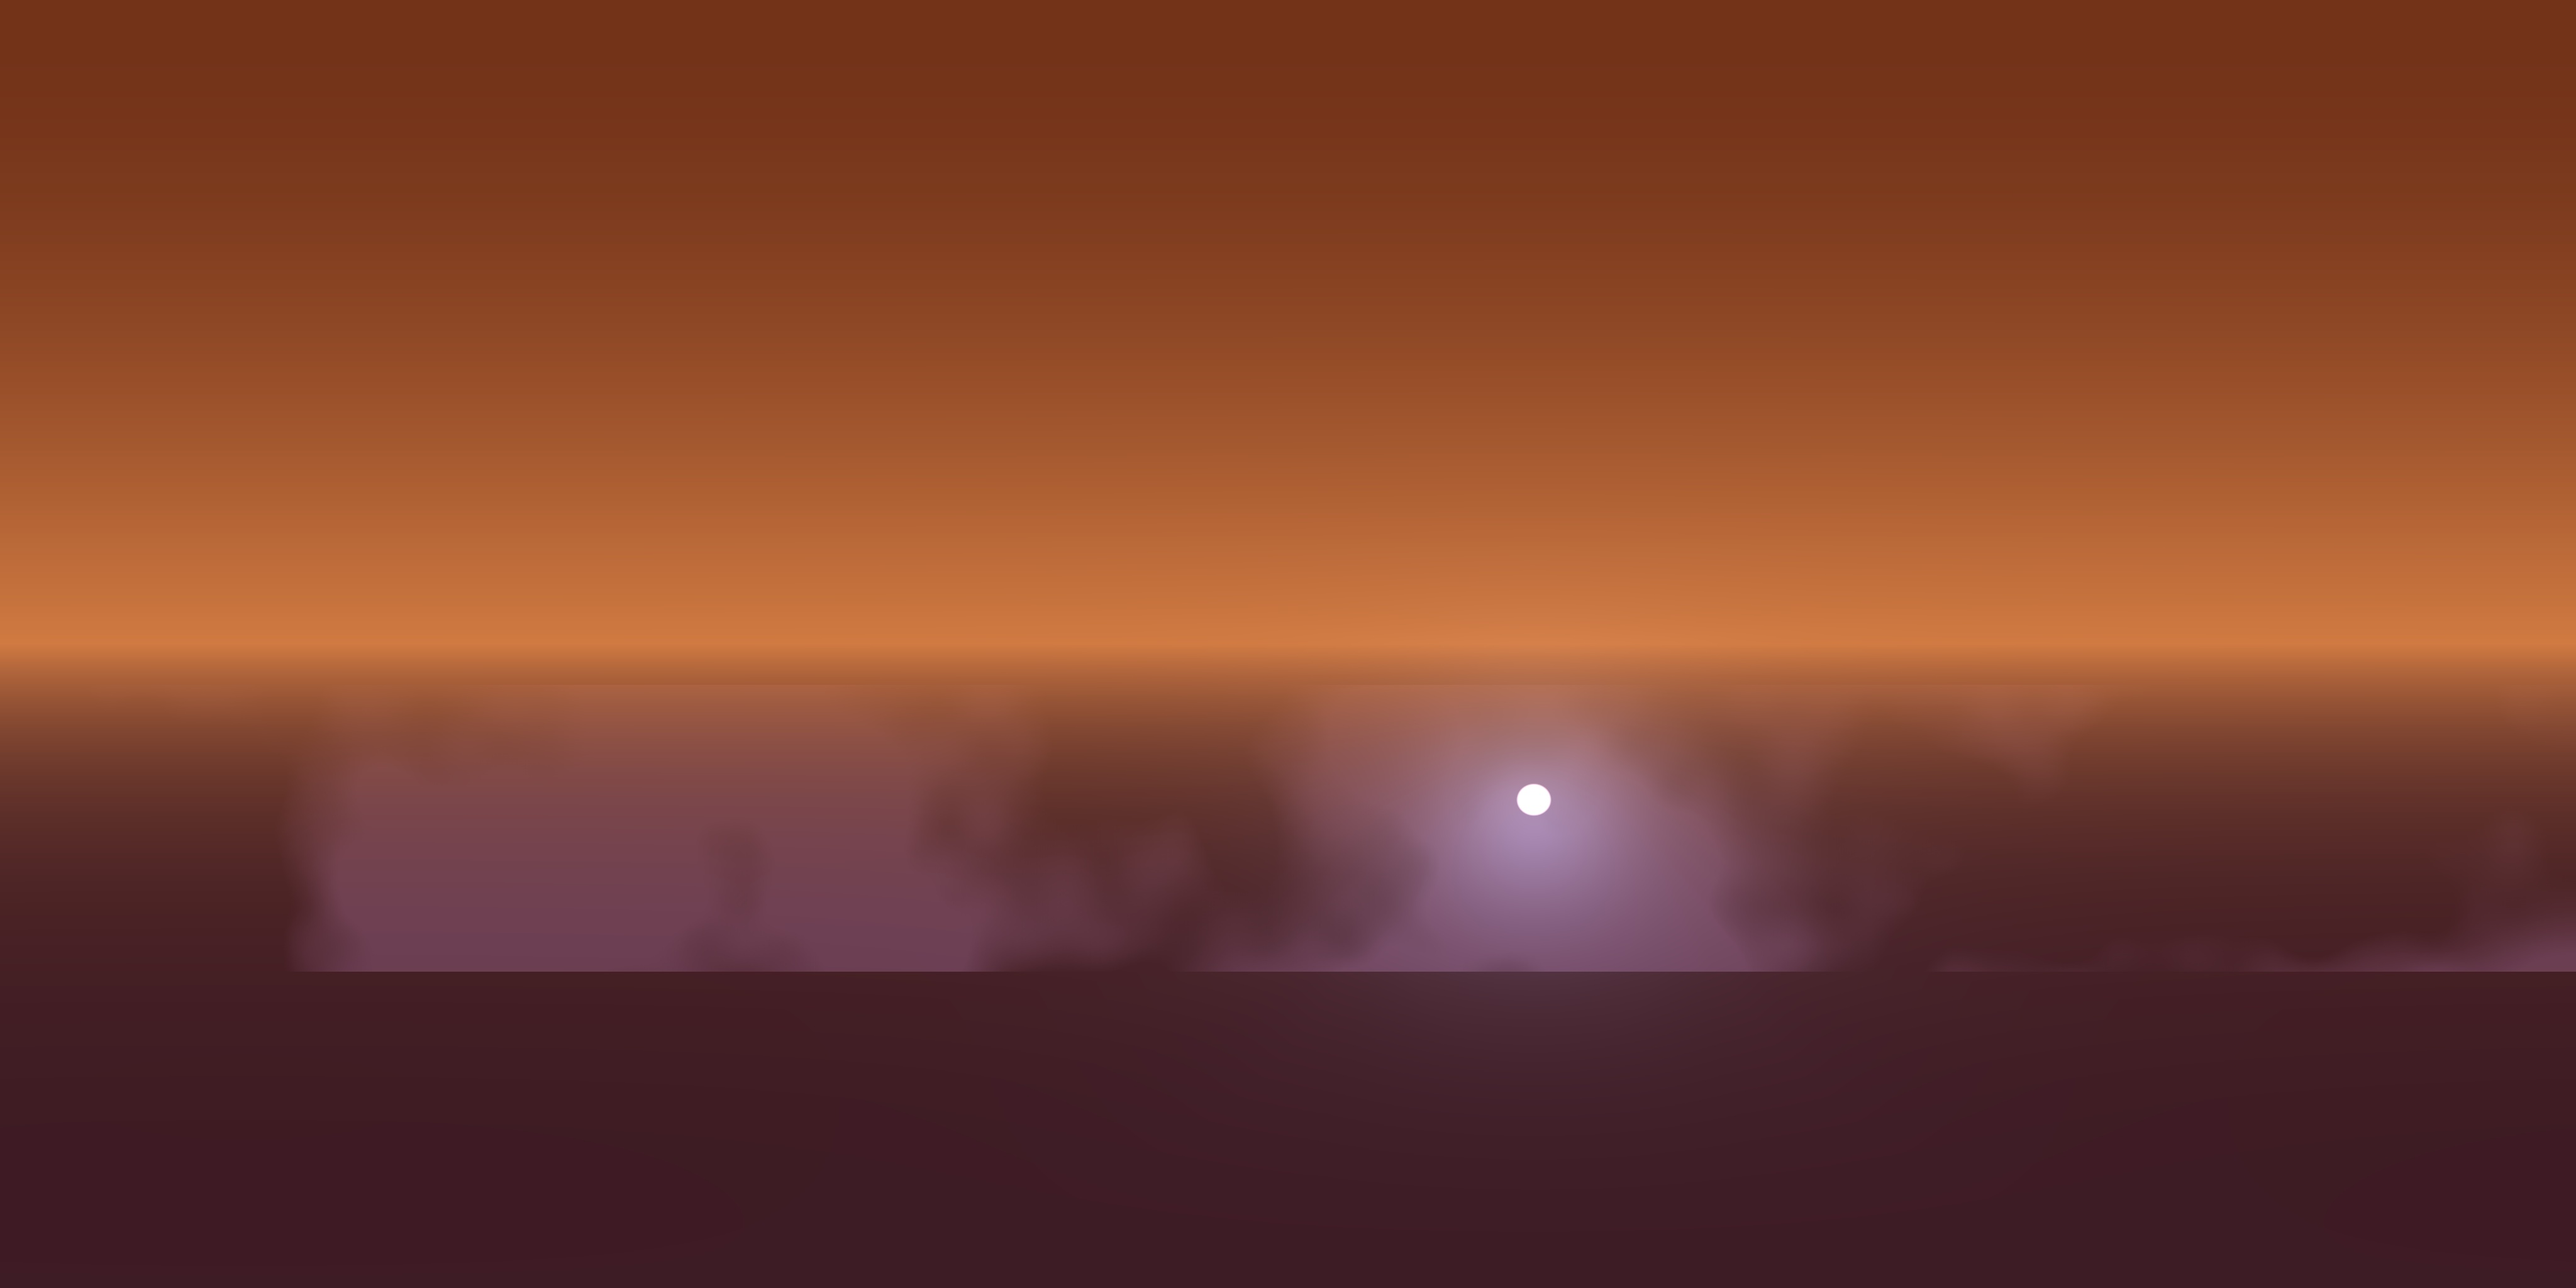
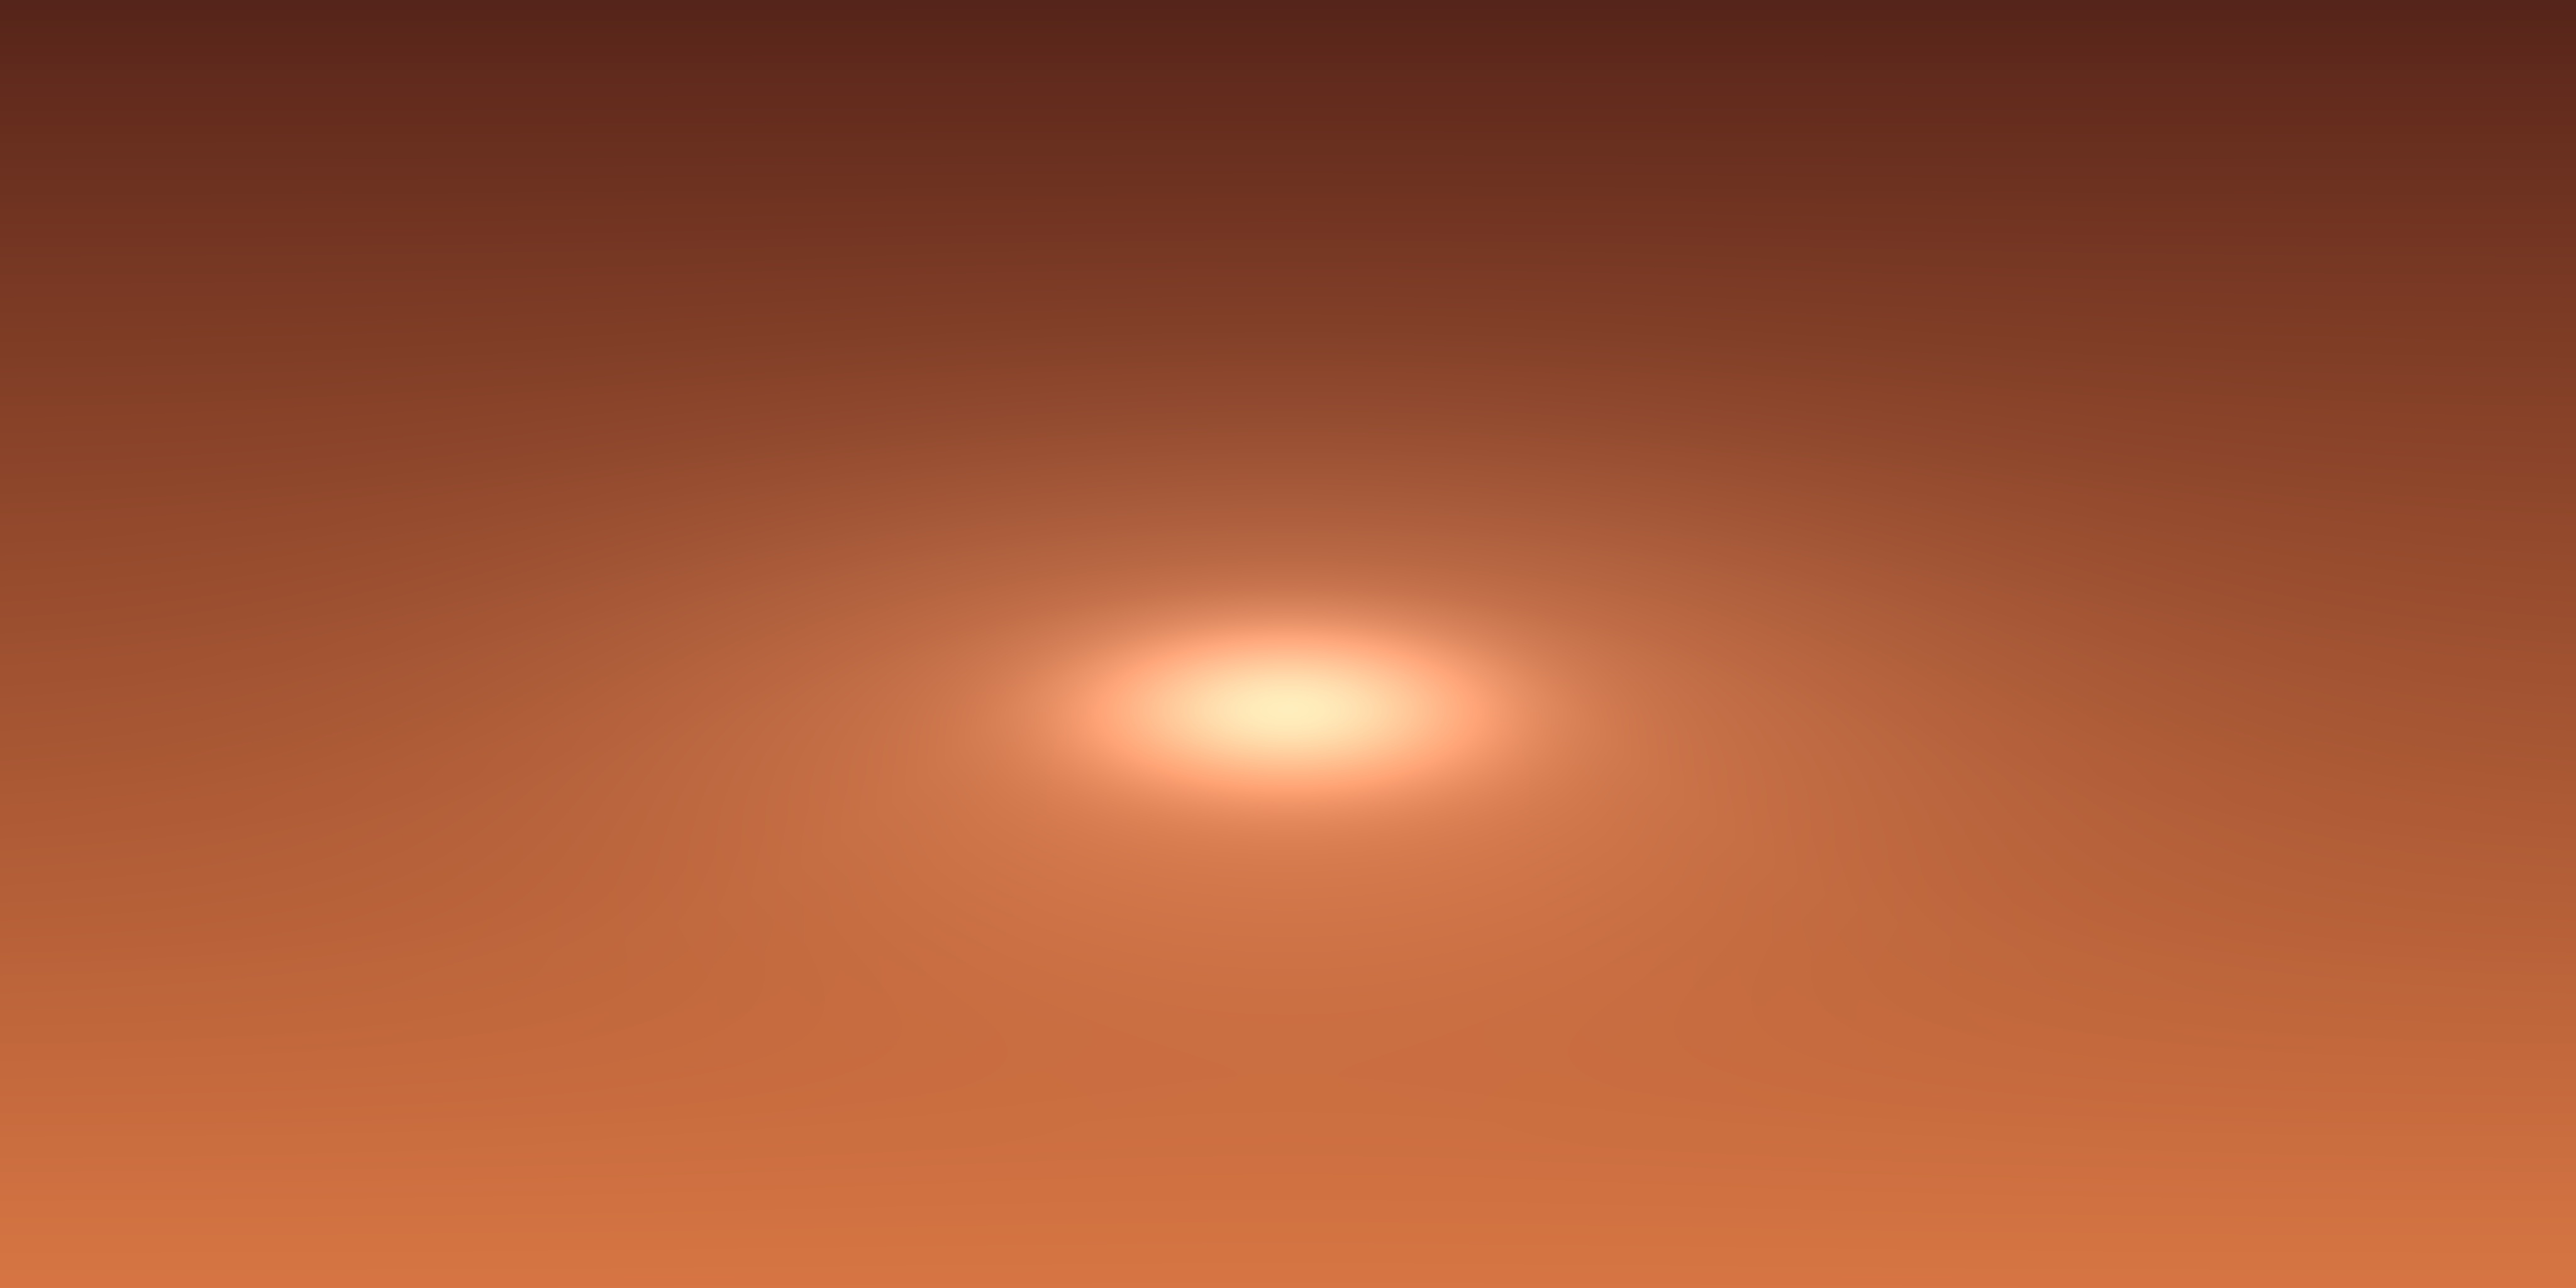
fix(scene3): restore pure vibrant Martian orange atmosphere in Shot 2 eliminating dark patches

diff --git a/Scene3.cpp b/Scene3.cpp
@@ -820,8 +820,34 @@ static void renderAtmosphericSkybox() {
         glMatrixMode(GL_PROJECTION);
         glPopMatrix();
         glMatrixMode(GL_MODELVIEW);
+    } else if (seqTime < 60.5f) {
+        // Shot 2 (50.5s - 60.5s): Vibrant, 100% rich warm Martian orange atmosphere (zero black patches)
+        glMatrixMode(GL_PROJECTION);
+        glPushMatrix();
+        glLoadIdentity();
+        glOrtho(0.0, 1.0, 0.0, 1.0, -1.0, 1.0);
+
+        glMatrixMode(GL_MODELVIEW);
+        glPushMatrix();
+        glLoadIdentity();
+
+        glBegin(GL_QUADS);
+            // Lower atmosphere: glowing Martian butterscotch/salmon orange
+            glColor3f(0.76f, 0.40f, 0.22f);
+            glVertex2f(0.0f, 0.0f);
+            glVertex2f(1.0f, 0.0f);
+            // Upper atmosphere: rich warm Martian rust (pure orange tones, never black)
+            glColor3f(0.52f, 0.24f, 0.14f);
+            glVertex2f(1.0f, 1.0f);
+            glVertex2f(0.0f, 1.0f);
+        glEnd();
+
+        glPopMatrix();
+        glMatrixMode(GL_PROJECTION);
+        glPopMatrix();
+        glMatrixMode(GL_MODELVIEW);
     } else {
-        // Shots 2 & 3: Accurate Photorealistic NASA Martian Sky Dome
+        // Shot 3 (60.5s - 66.5s): Accurate Photorealistic NASA Martian Sky Dome
         buildSkyDome();
         if (skyTexID && skyDomeDisplayList) {
             glEnable(GL_TEXTURE_2D);
@@ -849,7 +875,7 @@ static void renderAtmosphericSkybox() {
             glLoadIdentity();
             glBegin(GL_QUADS);
                 glColor3f(0.74f, 0.40f, 0.24f); glVertex2f(0.0f, 0.0f); glVertex2f(1.0f, 0.0f);
-                glColor3f(0.22f, 0.09f, 0.13f); glVertex2f(1.0f, 1.0f); glVertex2f(0.0f, 1.0f);
+                glColor3f(0.50f, 0.22f, 0.13f); glVertex2f(1.0f, 1.0f); glVertex2f(0.0f, 1.0f);
             glEnd();
             glPopMatrix();
             glMatrixMode(GL_PROJECTION);
